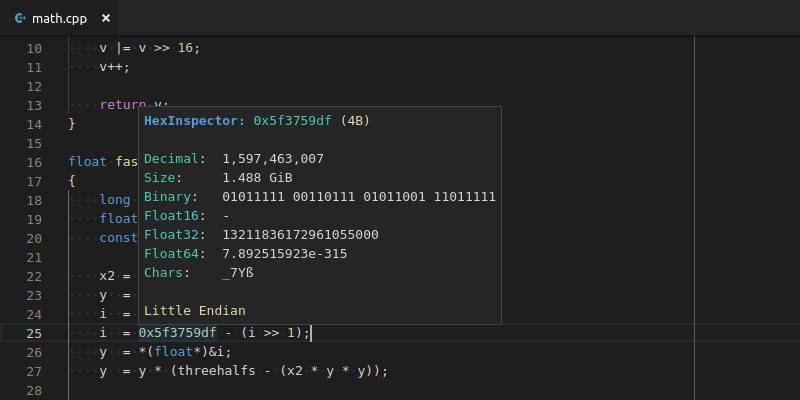
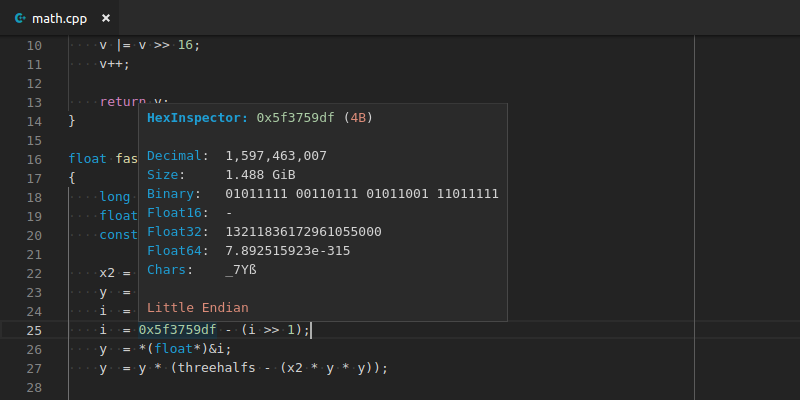
Bump version

diff --git a/README.md b/README.md
@@ -10,7 +10,7 @@
 
 ## Overview
 
-**HexInspector** is an extension for [Visual Studio Code] that provides fast and easy way to peek other forms of a hexadecimal values. You just need to point a value and other forms will be summarized in a hover. Hexadecimal values are recognized if they start with `0x` or `#` (e.g. `0x123`, `#1234`). The extension supports both `Little-Endian` and `Big-Endian` byte order. You can choose endianness in settings.
+**HexInspector** is an extension for [Visual Studio Code] that provides fast and easy way to peek other forms of a hexadecimal value. You just need to point a value and other forms will be summarized in a hover. Hexadecimal value is recognized if it starts with `0x` or `#` (e.g. `0x123`, `#1234`). The extension supports both `Little-Endian` and `Big-Endian` byte order. You can choose endianness in settings.
 
 Extension is available on the [Marketplace].
 

diff --git a/CHANGELOG.md b/CHANGELOG.md
@@ -1,5 +1,10 @@
 # Change Log
 
+## [1.0.0] (2019-04-28)
+
+### Added
+- New hover layout colors
+
 ## [0.0.3] (2019-02-02)
 
 ### Added
@@ -33,7 +38,8 @@ Display a hover with following conversions of the pointed hexadecimal value:
 
 
 
-[Unreleased]: https://github.com/mateuszchudyk/vscode-hexinspector/compare/v0.0.3...HEAD
+[Unreleased]: https://github.com/mateuszchudyk/vscode-hexinspector/compare/v1.0.0...HEAD
+[1.0.0]: https://github.com/mateuszchudyk/vscode-hexinspector/compare/v0.0.3...v1.0.0
 [0.0.3]: https://github.com/mateuszchudyk/vscode-hexinspector/compare/v0.0.2...v0.0.3
 [0.0.2]: https://github.com/mateuszchudyk/vscode-hexinspector/compare/v0.0.1...v0.0.2
 [0.0.1]: https://github.com/mateuszchudyk/vscode-hexinspector/commit/165f3ed7caeed85a803346ce4e36781e25abb1ce
